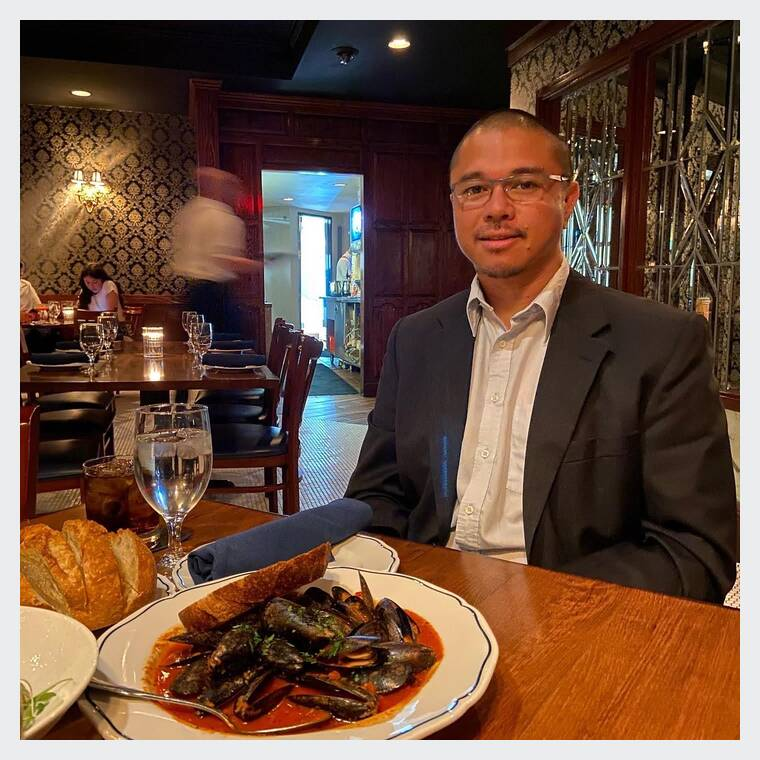
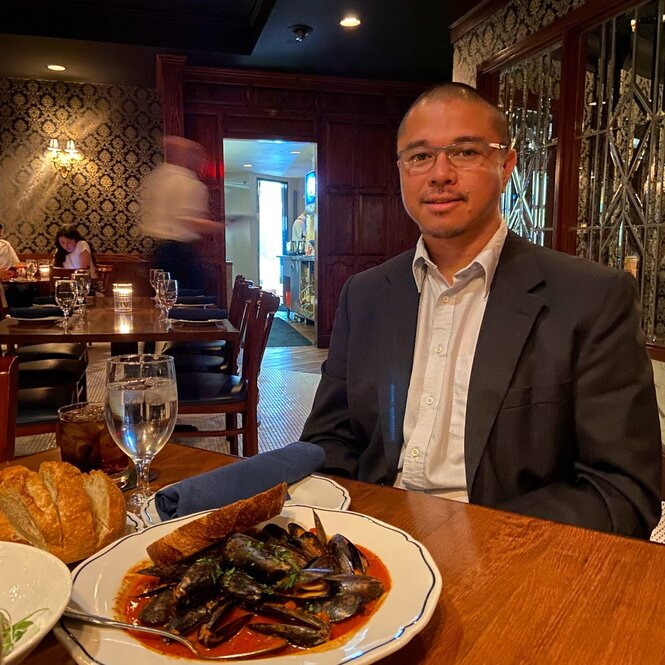
Update & style profile images.

diff --git a/index.html b/index.html
@@ -319,7 +319,7 @@
         <!-- About Me Section -->
         <section id="about-me">
           <h2>About Me</h2>
-          <div class="flex-container">
+          <div>
             <img
               class="profile-pic"
               src="resources\img\profile2.jpg"
